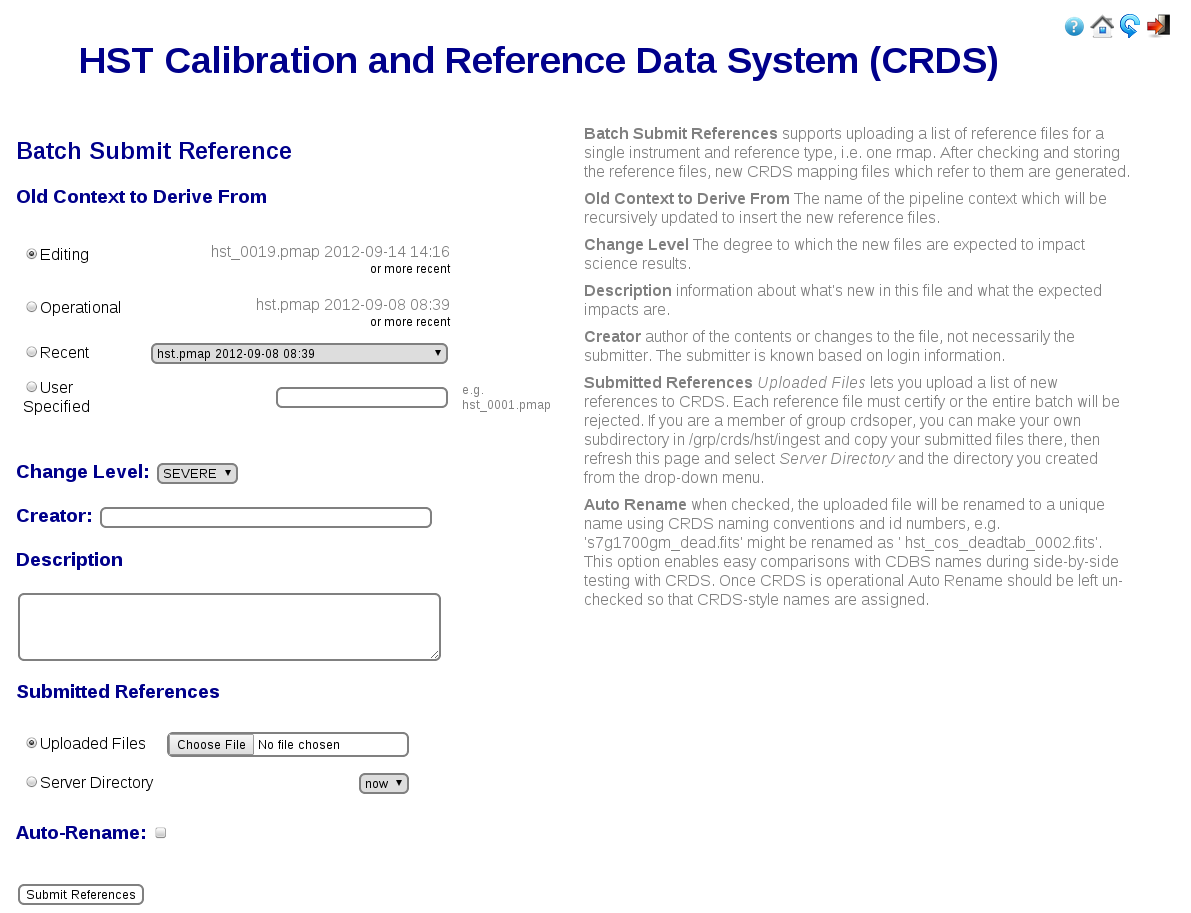
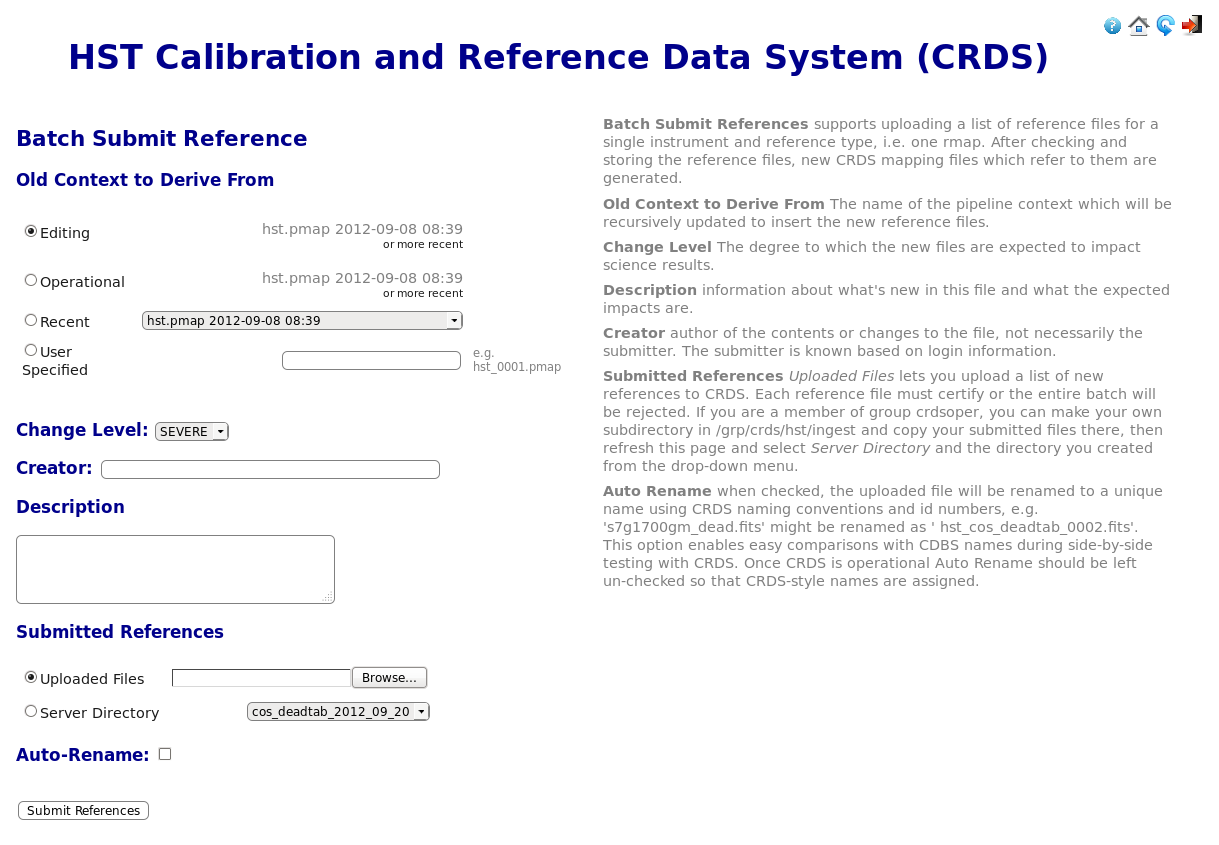
Updated web site user's guide for HST.
git-svn-id: https://aeon.stsci.edu/ssb/svn/crds/trunk@665 0d8f46c8-9b30-49d0-b470-0f6283dc92e8

diff --git a/docs/doc/source/web_site_use.rst b/docs/doc/source/web_site_use.rst
@@ -23,7 +23,7 @@ Public Functions
 
 The following functions are available for anyone with access to the CRDS web
 server and basically serve to distribute information about CRDS files and
-recommendations.   
+recommendations.   Initially,  the CRDS sites are only visible within the Institute.
 
 Dataset Best References (alpha)
 ...............................
@@ -40,11 +40,11 @@ dataset file itself or a database catalog entry.
 Context
 +++++++
 
-The context defines the versions set of CRDS rules used to select best references.
+The context defines the set of CRDS rules used to select best references.
 *Edit* is the default context from which most newly created contexts are derived.  
 *Operational* is the context currently in use by the pipeline.   *Recent* shows
-the most recent contexts.   *User Specified* enables the submitter to type in the
-name of any other known context.
+the most recently created contexts.   *User Specified* enables the submitter to 
+type in the name of any other known context.
 
 Dataset
 +++++++
@@ -121,6 +121,9 @@ uploaded via the web (uploaded).
    :scale: 50 %
    :alt: file difference input
 
+Mapping Differences
++++++++++++++++++++
+
 For mappings,  *Difference Files* displays two kinds of information:
 
 .. figure:: images/web_difference_summary.png
@@ -140,6 +143,15 @@ For mappings,  *Difference Files* displays two kinds of information:
 .. figure:: images/web_difference_text.png
    :scale: 50 %
    :alt: file difference textual
+
+
+Reference Differences
++++++++++++++++++++++
+
+For references,  *Difference Files* is a thin wrapper around the pyfits
+script *fitsdiff*.   Potentially this is useful where a user doesn't have access 
+to pyfits or wants to compare existing reference files without downloading them.
+
 
 Browse Database
 ...............
@@ -169,7 +181,7 @@ to a detailed view of that file only:
    :scale: 50 %
    :alt: database browse details page
    
-The database details page has a number of accordion panes which open when you
+The file details page has a number of accordion panes which open when you
 click on them.  All file types have these generic panes:
 
 - Database - lists a table of CRDS metadata for the file.
@@ -178,7 +190,7 @@ click on them.  All file types have these generic panes:
 
 - Past Actions  - lists website actions which affected this file.
 
-- Used By Files - list files which reference this file.
+- Used By Files - list known CRDS files which reference this file.
 
 Reference files have these additional panes:
 
@@ -229,6 +241,9 @@ reference type,  i.e. controlled by the same .rmap file.
    :scale: 50 %
    :alt: batch reference submission inputs
    
+Old Context to Derive From
+++++++++++++++++++++++++++
+
 The specified context is used as the starting point for new automatically 
 generated context files and also determines any predecessors of the submitted 
 references for comparison during certification.   If all the submitted reference
@@ -237,9 +252,43 @@ automatically to refer to the newly entered references.    Based on their
 header parameters,  references are automatically assigned to appropriate
 match locations in the .rmap file.
 
+Submitted References
+++++++++++++++++++++
+
+This section is a work in progress.   
+
+* *Uploaded Files* lets a user upload a list of files from their browser;  
+   this is both crude in terms of feedback and unstable for large numbers of 
+   large files at the time of this writing.   
+
+* *Server Directory* requires that a submitter have write access to the 
+  Central Store directory /grp/crds/{hst,jwst}/ingest by being a member of group 
+  crdsoper.   To submit files in this manner,  a submitter should:
+  
+  1. Create a sub-directory in /grp/crds/{hst,jwst}/ingest named like: <instrument>_<filetype>_<date>,
+     e.g. acs_darkfile_2012_09_20
+  
+  2. Copy the submitted files to that directory using some means (cp or scp).
+  
+  3. Refresh the page and choose your directory from the drop-down menu.
+  
+  4. Submit.   All files in your ingest directory are submitted.   All the files
+     must be of the same reference type.
+  
+  5. Once your files are in CRDS and you have confirmed the submission,  
+     remove your ingest directory from /grp/crds.
+
 .. figure:: images/web_batch_submit_results.png
    :scale: 50 %
    :alt: batch reference submission results
+   
+Auto Rename
++++++++++++
+
+Normally files uploaded to CRDS will be assigned new unique names.   During side-by-side
+testing with CDBS,  *Auto Rename* can be deselected so that new files added to CRDS
+retain their CDBS names for easier comparison.  The CRDS database remembers both
+the name of the file the submitter uploaded as well as the new unique name.
    
 Reference Certification
 +++++++++++++++++++++++
@@ -321,7 +370,8 @@ and then clicking on one of the links in the *name* column:
    :scale: 50 %
    :alt: edit rmap selection
 
-The second step is to add or replace file lines in an rmap by clicking on them:
+The second step is to add or replace file lines in an rmap by clicking on a
+useafter-date/filename line:
 
 .. figure:: images/web_edit_rmap_click.png
    :scale: 50 %
@@ -334,9 +384,10 @@ Clicking on a line exposes two buttons adjacent to it:  *+* and *replace*.
    :alt: edit rmap editing
    
 New lines are added by clicking on the *+*.   This will open a line with a text
-entry box for entering a USEAFTER date and a file input as well as some additional
-parameters.   A newly submitted reference file can be entered into the file input
-box and will be uploaded and submitted to CRDS when the page is submitted.
+entry box below the clicked line for entering a USEAFTER date and a file input 
+as well as some additional parameters.   A newly submitted reference file can 
+be entered into the file input box and will be uploaded and submitted to CRDS 
+when the page is submitted.
 
 Clicking *replace* strikes out the clicked line and adds inputs below it at the
 same USEAFTER time.   
@@ -359,15 +410,15 @@ uploaded to the server.
    :alt: certify file inputs
    
 If the certified file is a reference table,  the specified context is used to
-locate a comparison file.    Certify File can be used to check files already
-in CRDS.
+locate a comparison file. 
 
 Submit References
 .................
 
-*Submit References* provides a basic interface for submitting a list of references
-which don't have to be related.   No context mappings are generated to refer to the
-submitted files.   Submitted references must still pass through crds.certify.
+*Submit References* provides a lower level interface for submitting a list of 
+references which don't have to be of the same instrument and filetype.   No 
+context mappings are generated to refer to the submitted files.   Submitted 
+references must still pass through crds.certify.
 
 .. figure:: images/web_submit_references.png
    :scale: 50 %
@@ -379,7 +430,8 @@ Submit Mappings
 *Submit Mappings* provides a basic interface for submitting a list of mapping
 files which don't have to be related.   This can be used to submit context files
 which refer to files from *Submit References* and with fewer restrictions on
-allowable changes.   Typically only .rmaps are submitted this way.
+allowable changes.   Typically only .rmaps are submitted this way.   Mappings
+submitted this way must also pass through crds.certify.   
 
 .. figure:: images/web_submit_mappings.png
    :scale: 50 %
